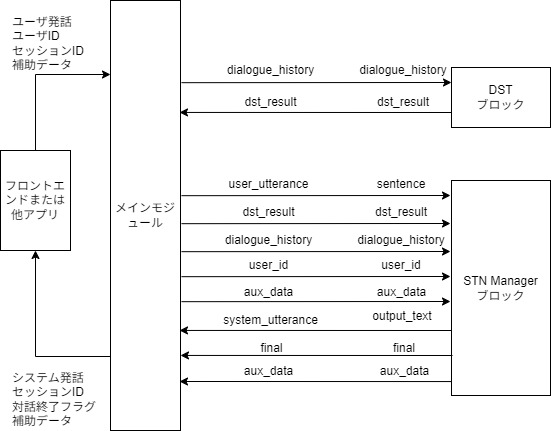
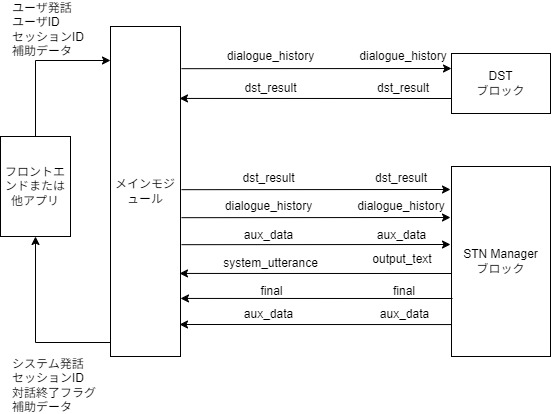
small changes

diff --git a/docs/document-ja/source/conf.py b/docs/document-ja/source/conf.py
@@ -18,12 +18,12 @@ import sphinx_rtd_theme
 
 # -- Project information -----------------------------------------------------
 
-project = 'DialBB ver. 1.2 ドキュメント'
+project = 'DialBB ver. 2.0 ドキュメント'
 copyright = 'C4A Research Institute, Inc'
 author = 'Mikio Nakano'
 
 # The full version, including alpha/beta/rc tags
-release = 'v1.2.0'
+release = 'v2.0.0'
 
 
 # -- General configuration ---------------------------------------------------
@@ -96,7 +96,7 @@ latex_elements = {
 # (source start file, target name, title,
 #  author, documentclass [howto, manual, or own class]).
 latex_documents = [
-    (master_doc, 'dialbb-document-ja.tex', 'DialBB 1.2 ドキュメント',
+    (master_doc, 'dialbb-document-ja.tex', 'DialBB 2.0 ドキュメント',
      '', 'manual'),
 ]
 

diff --git a/docs/document-ja/source/03_tutorial.md b/docs/document-ja/source/03_tutorial.md
@@ -225,10 +225,10 @@ blocks:  # ブロックのリスト
     function_definitions: scenario_functions  # 知識記述の中で用いる関数の定義ファイル
     scenario_graph: yes
     input:
-      sentence: user_utterance
+      # sentence: user_utterance
       dialogue_history: dialogue_history
       dst_result: dst_result
-      user_id: user_id
+      # user_id: user_id
       aux_data: aux_data
     output:
       output_text: system_utterance

diff --git a/docs/document-ja/source/index.rst b/docs/document-ja/source/index.rst
@@ -3,7 +3,7 @@
    You can adapt this file completely to your liking, but it should at least
    contain the root `toctree` directive.
 
-DialBB ver. 1.2 ドキュメント
+DialBB ver. 2.0 ドキュメント
 ================================================
 
 .. toctree::